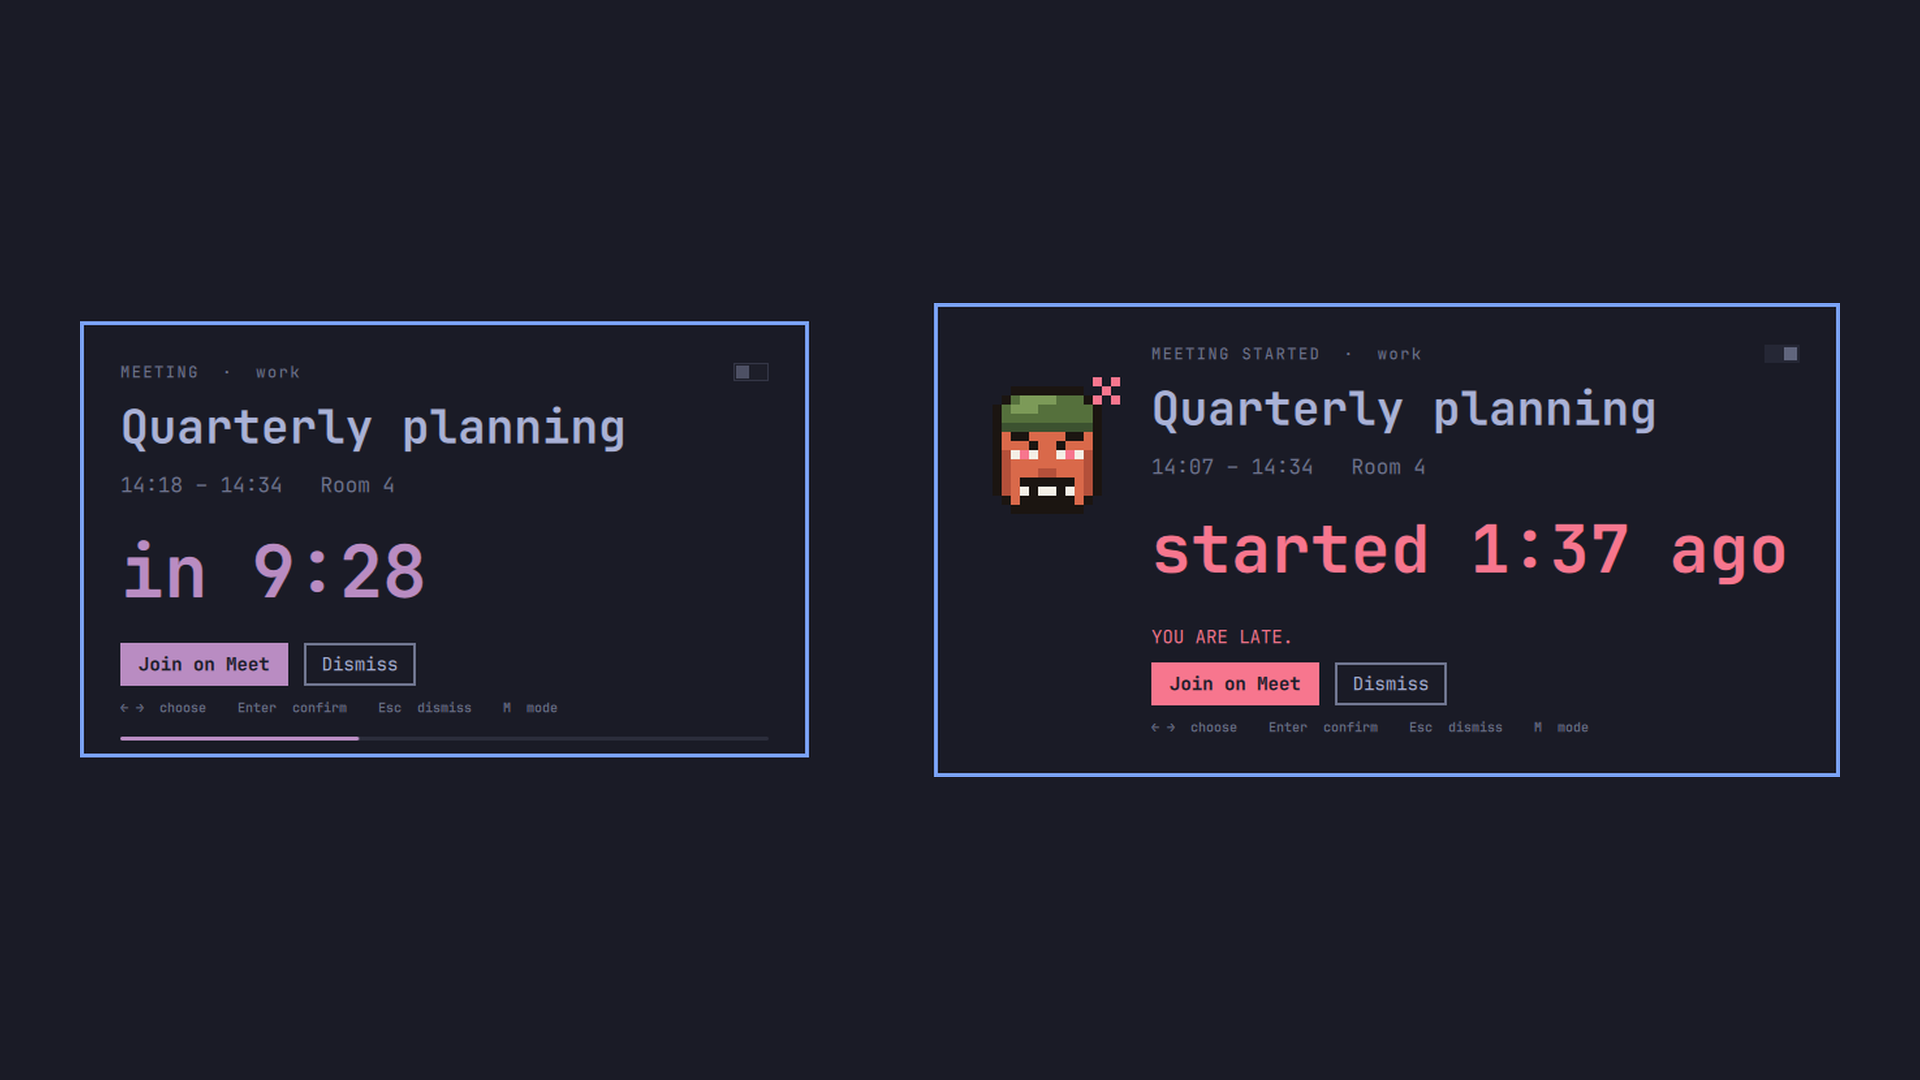
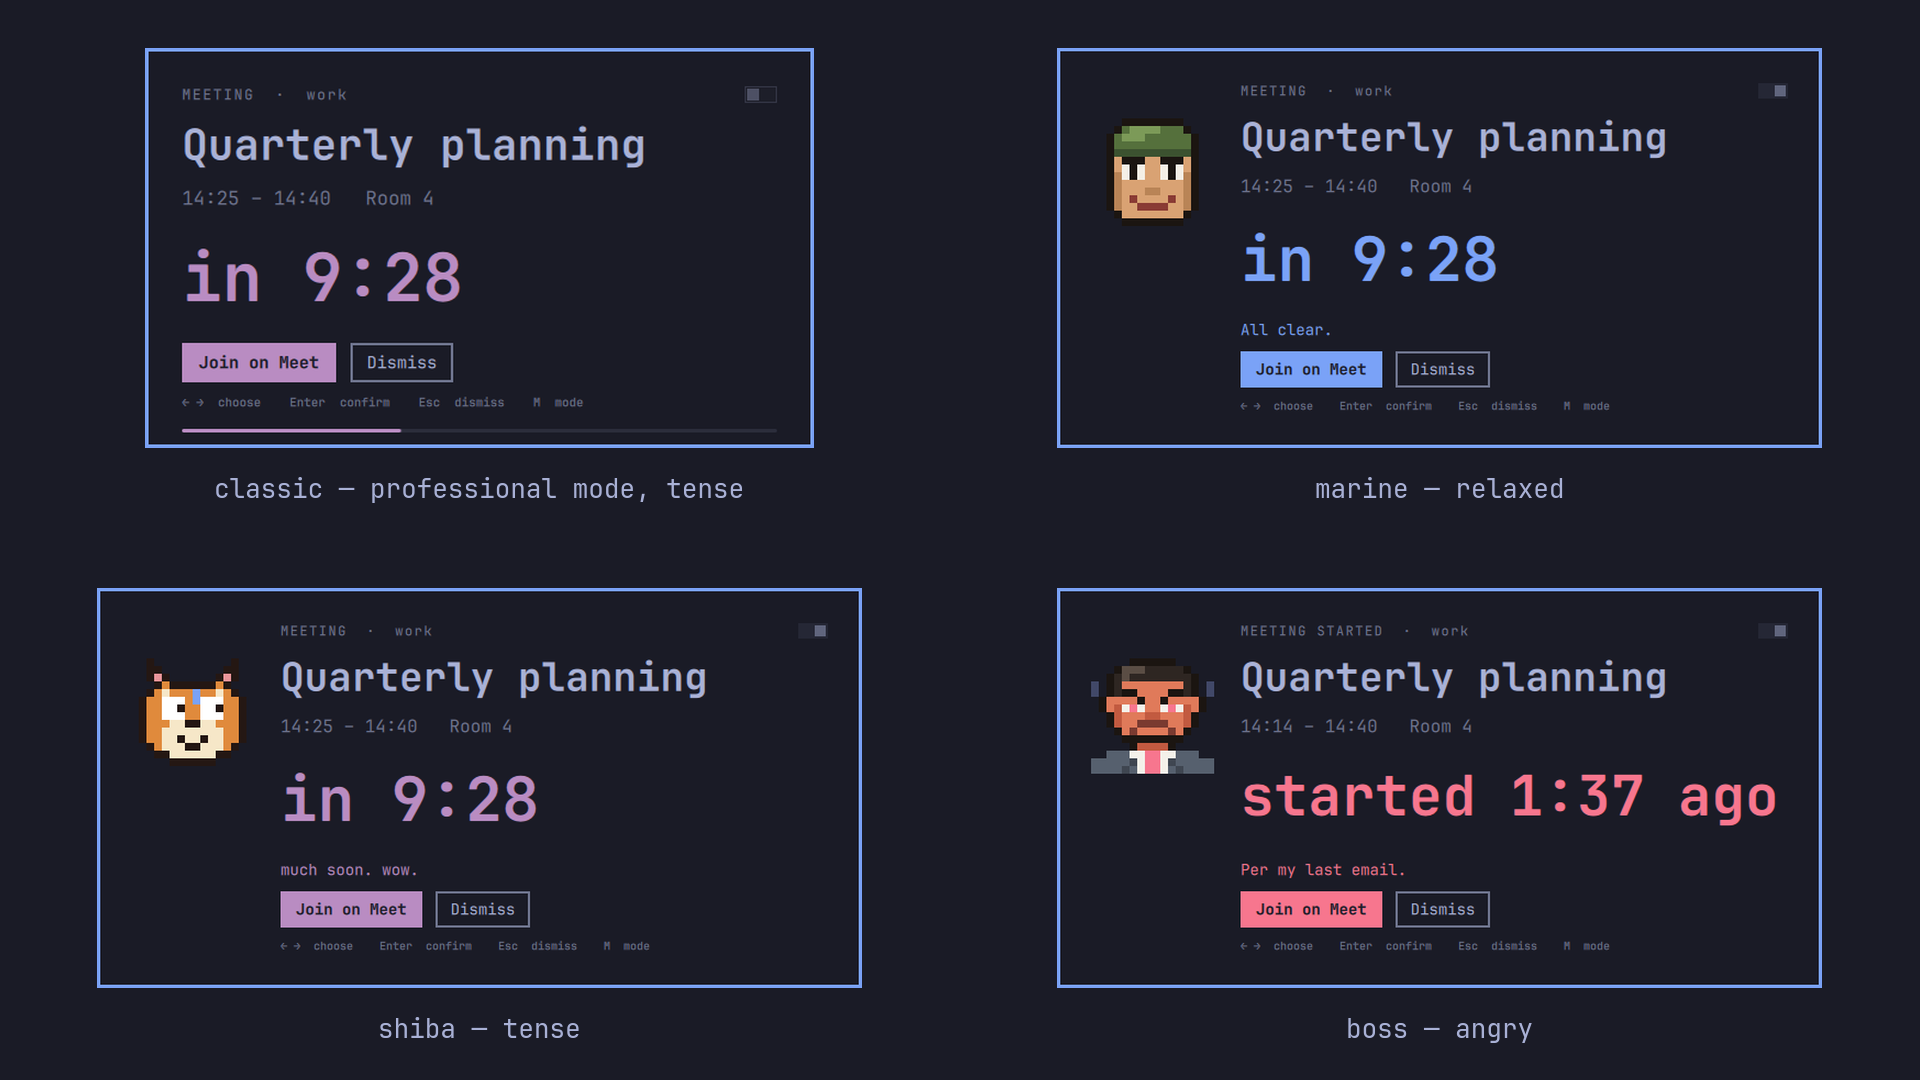
Marketplace polish: name, description, OmaCal first, 2x2 preview
- manifest: name "Ominous Meeting" and a description with the words the
  marketplace search reads (meeting, alert, calendar, OmaCal, Google
  Calendar); the ID stays io.github.tuland.ominous.
- README: OmaCal stated as a requirement right under the title, with links
  to its site, source and install page.
- preview.png: a 2x2 grid, one card per shipped theme (classic tense,
  marine relaxed, shiba tense, boss angry), each with a caption.
- tests: the OmaCal notice comes first; name and description carry the
  search words and no other product's name.

diff --git a/README.md b/README.md
@@ -1,18 +1,21 @@
 # Ominous
 
+> **Requires [OmaCal](https://omacal.app)** ([source](https://github.com/x3me/omacal)), the native
+> desktop calendar for Google Calendar, iCloud and CalDAV. Ominous reads OmaCal's offline agenda
+> and has no calendar access of its own: no OmaCal, no alerts.
+
 *The ominous meeting.* An [Omarchy](https://omarchy.org) shell plugin that puts a big card in
 the middle of the focused monitor shortly before a meeting starts, over a dimmed screen. It
 stays until you dismiss it or the meeting ends — a corner toast is exactly what gets missed.
 It can be professional, or it can get angry at you.
 
-Calendar data comes from [OmaCal](https://omacal.app): the plugin reads `omacal agenda --json`
-(OmaCal's offline database) once a minute. No Google login, no token of its own.
+It reads `omacal agenda --json` once a minute. No Google login, no token of its own.
 
 ## Requirements
 
 - Omarchy with shell plugins (the `omarchy plugin` command).
-- [OmaCal](https://omacal.app), with the `omacal` command on your `PATH` and at least one
-  calendar synced: Ominous reads OmaCal's offline agenda and has no calendar access of its own.
+- [OmaCal](https://omacal.app) ([install](https://omacal.app/download)), with the `omacal`
+  command on your `PATH` and at least one calendar synced.
 
 ## Install
 

diff --git a/openspec/changes/archive/2026-10-05-prepare-marketplace/design.md b/openspec/changes/archive/2026-10-05-prepare-marketplace/design.md
@@ -48,9 +48,11 @@ The steps are checked afterwards with `omarchy plugin list` and the live suite.
 <payload>`. The payload is synthetic: a made-up meeting, the theme files read from `themes/`,
 and `dim: 1`. With full dimming the veil behind the card is opaque, the theme's background
 color, so a capture of the focused monitor contains the card and nothing of the desktop. The
-script captures two states, `classic` in the tense phase and `marine` once angry, and composes
-them side by side with ImageMagick on a 1920x1080 canvas of the same color. The card's colors
-are those of the Omarchy theme active when the script runs.
+script captures one card per shipped theme and composes a 2x2 grid with ImageMagick on a
+1920x1080 canvas of the same color. The grid is `classic` (professional, tense), `marine`
+(relaxed), `shiba` (tense) and `boss` (angry), so together they show every phase. Each card has
+a caption naming the theme and the phase, in the shell's monospace font and the theme's
+foreground color. The card's colors are those of the Omarchy theme active when the script runs.
 
 - *Alternative: crop around the card on a normal capture.* Rejected. The edges show the desktop
   behind the card, as the manual screenshots during development did.

diff --git a/openspec/changes/archive/2026-10-05-prepare-marketplace/tasks.md b/openspec/changes/archive/2026-10-05-prepare-marketplace/tasks.md
@@ -11,7 +11,7 @@
 
 ## 3. Preview image
 
-- [x] 3.1 Add `tools/make-preview.sh`: summon synthetic `classic` tense and `marine` angry cards with `dim: 1`, capture the focused monitor, compose both on a 1920x1080 canvas with ImageMagick into `preview.png`. Verify the image shows only the two cards on a solid background (looked at before committing)
+- [x] 3.1 Add `tools/make-preview.sh`: summon one synthetic card per shipped theme with `dim: 1` (`classic` tense, `marine` relaxed, `shiba` tense, `boss` angry), capture the focused monitor, compose a 2x2 grid with a caption under each card on a 1920x1080 canvas with ImageMagick into `preview.png`. Verify the image shows only the cards and captions on a solid background, readable at the 720x405 thumbnail size (looked at before committing)
 - [x] 3.2 Add a unit test that `preview.png` exists and is at least 1600x900 (read from the PNG header). Verify it fails without the file
 
 ## 4. Release checklist
